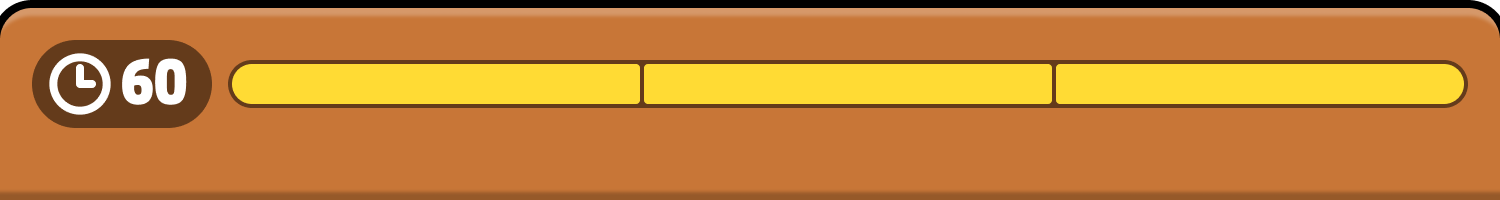
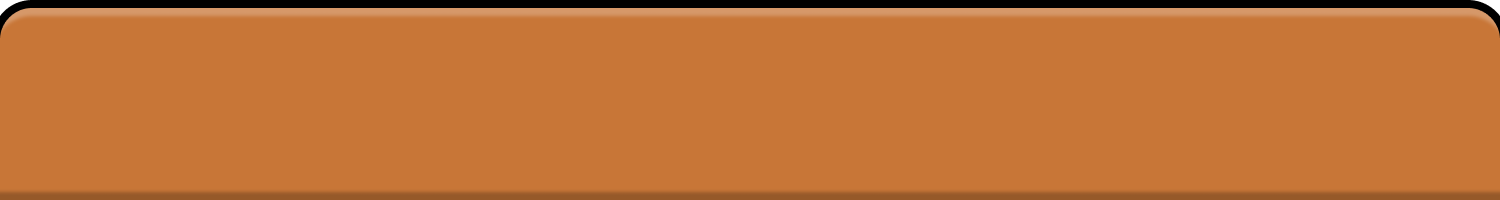
start clock countdown

Changed region(s): [[0.0, 0.18, 0.9813, 0.66]]

diff --git a/src/components/PhaserGame.vue b/src/components/PhaserGame.vue
@@ -15,12 +15,22 @@
         class="absolute bottom-0 w-full"
         :style="{ maxWidth:  + 'px' }"
       >
-        <img src="/images/time_bar.png" class="">
+        <div class="relative flex aspect-[10]">
+          <!-- bar bg -->
+          <img src="/images/time_bar.png" class="absolute bottom-0">
+          <!-- clock bg -->
+          <div class=" w-[45px] h-[22px] py-[2px] bg-[#643B1B] rounded-[20px] relative left-2 flex justify-start">
+            <!-- icon -->
+            <img src="/images/clock_icon.png" class="relative w-[16px] h-[16px] mx-1">
+            <!-- sec -->
+            <p class="sec-font relative text-[18px] leading-[100%]">{{clock_sec}}</p>
+          </div>
+        </div>
       </div>
       <!-- Start -->
       <div
         v-if="(4 > sec && sec >= 0)"
-        class="absolute bottom-[50%] w-full pointer-events-auto count-down"
+        class="absolute top-[40%] w-full pointer-events-auto text-[100px] leading-[100px] tracking-[0%] text-center font-[Impact]"
         :style="{ maxWidth:  + 'px' }"
       >
         {{countdownSec}}
@@ -51,6 +61,7 @@ const itemList = [
 
 let gameStart = ref(false)
 let sec = ref(0)
+let clock_sec = ref(60)
 
 // 開啟三秒後啟動
 function StartCountdown() {
@@ -61,8 +72,20 @@ function StartCountdown() {
     if (sec.value === 3) {
       console.log('GameStart!');
       gameStart.value = true;
+      StartClock();
     }
     if (sec.value === 4) clearInterval(interval); // 停止計時
+  }, 1000);
+}
+// 時鐘開始倒數
+function StartClock() {
+  console.log("StartClock!")
+  const interval = setInterval(() => {
+    clock_sec.value--;
+    if (clock_sec.value === 0) {
+      console.log('Clear!')
+      clearInterval(interval);
+    }
   }, 1000);
 }
 
@@ -285,9 +308,7 @@ onBeforeUnmount(() => {
 </script>
 <style scoped>
 
-.count-down {
-  @apply text-[100px] leading-[100px] tracking-[0%] text-center font-[Impact] ;
-  /* font-weight: 400; */
+.sec-font {
+  font-family: Passion One;
 }
-
 </style>

diff --git a/index.html b/index.html
@@ -9,6 +9,7 @@
     <!-- Android 裝置與 PWA 使用 -->
     <link rel="icon" type="image/png" sizes="512x512" href="/images/icon_512x512.png" />
     <link href="/src/styles.css" rel="stylesheet">
+    <link href="https://fonts.googleapis.com/css2?family=Passion+One&display=swap" rel="stylesheet">
     <meta name="viewport" content="width=device-width, initial-scale=1.0" />
     <title>Z'S HAPPY TIME</title>
     <script src="https://telegram.org/js/telegram-web-app.js"></script>

diff --git a/src/stores/store.ts b/src/stores/store.ts
@@ -5,7 +5,7 @@ export const useStore = defineStore('store', {
     isStart: true,
     isResult: false,
     MainPage: {
-      title: 'Main'
+      title: 'Start'
     },
     startPage: {
       title: 'Start'

diff --git a/src/components/Main.vue b/src/components/Main.vue
@@ -1,6 +1,6 @@
 <template>
   <h1 @click="GoToStart">{{ $store.MainPage.title }}</h1>
-  <img src="/images/zeus.png"/>
+  <!-- <img src="/images/zeus.png"/> -->
 
 </template>
 
